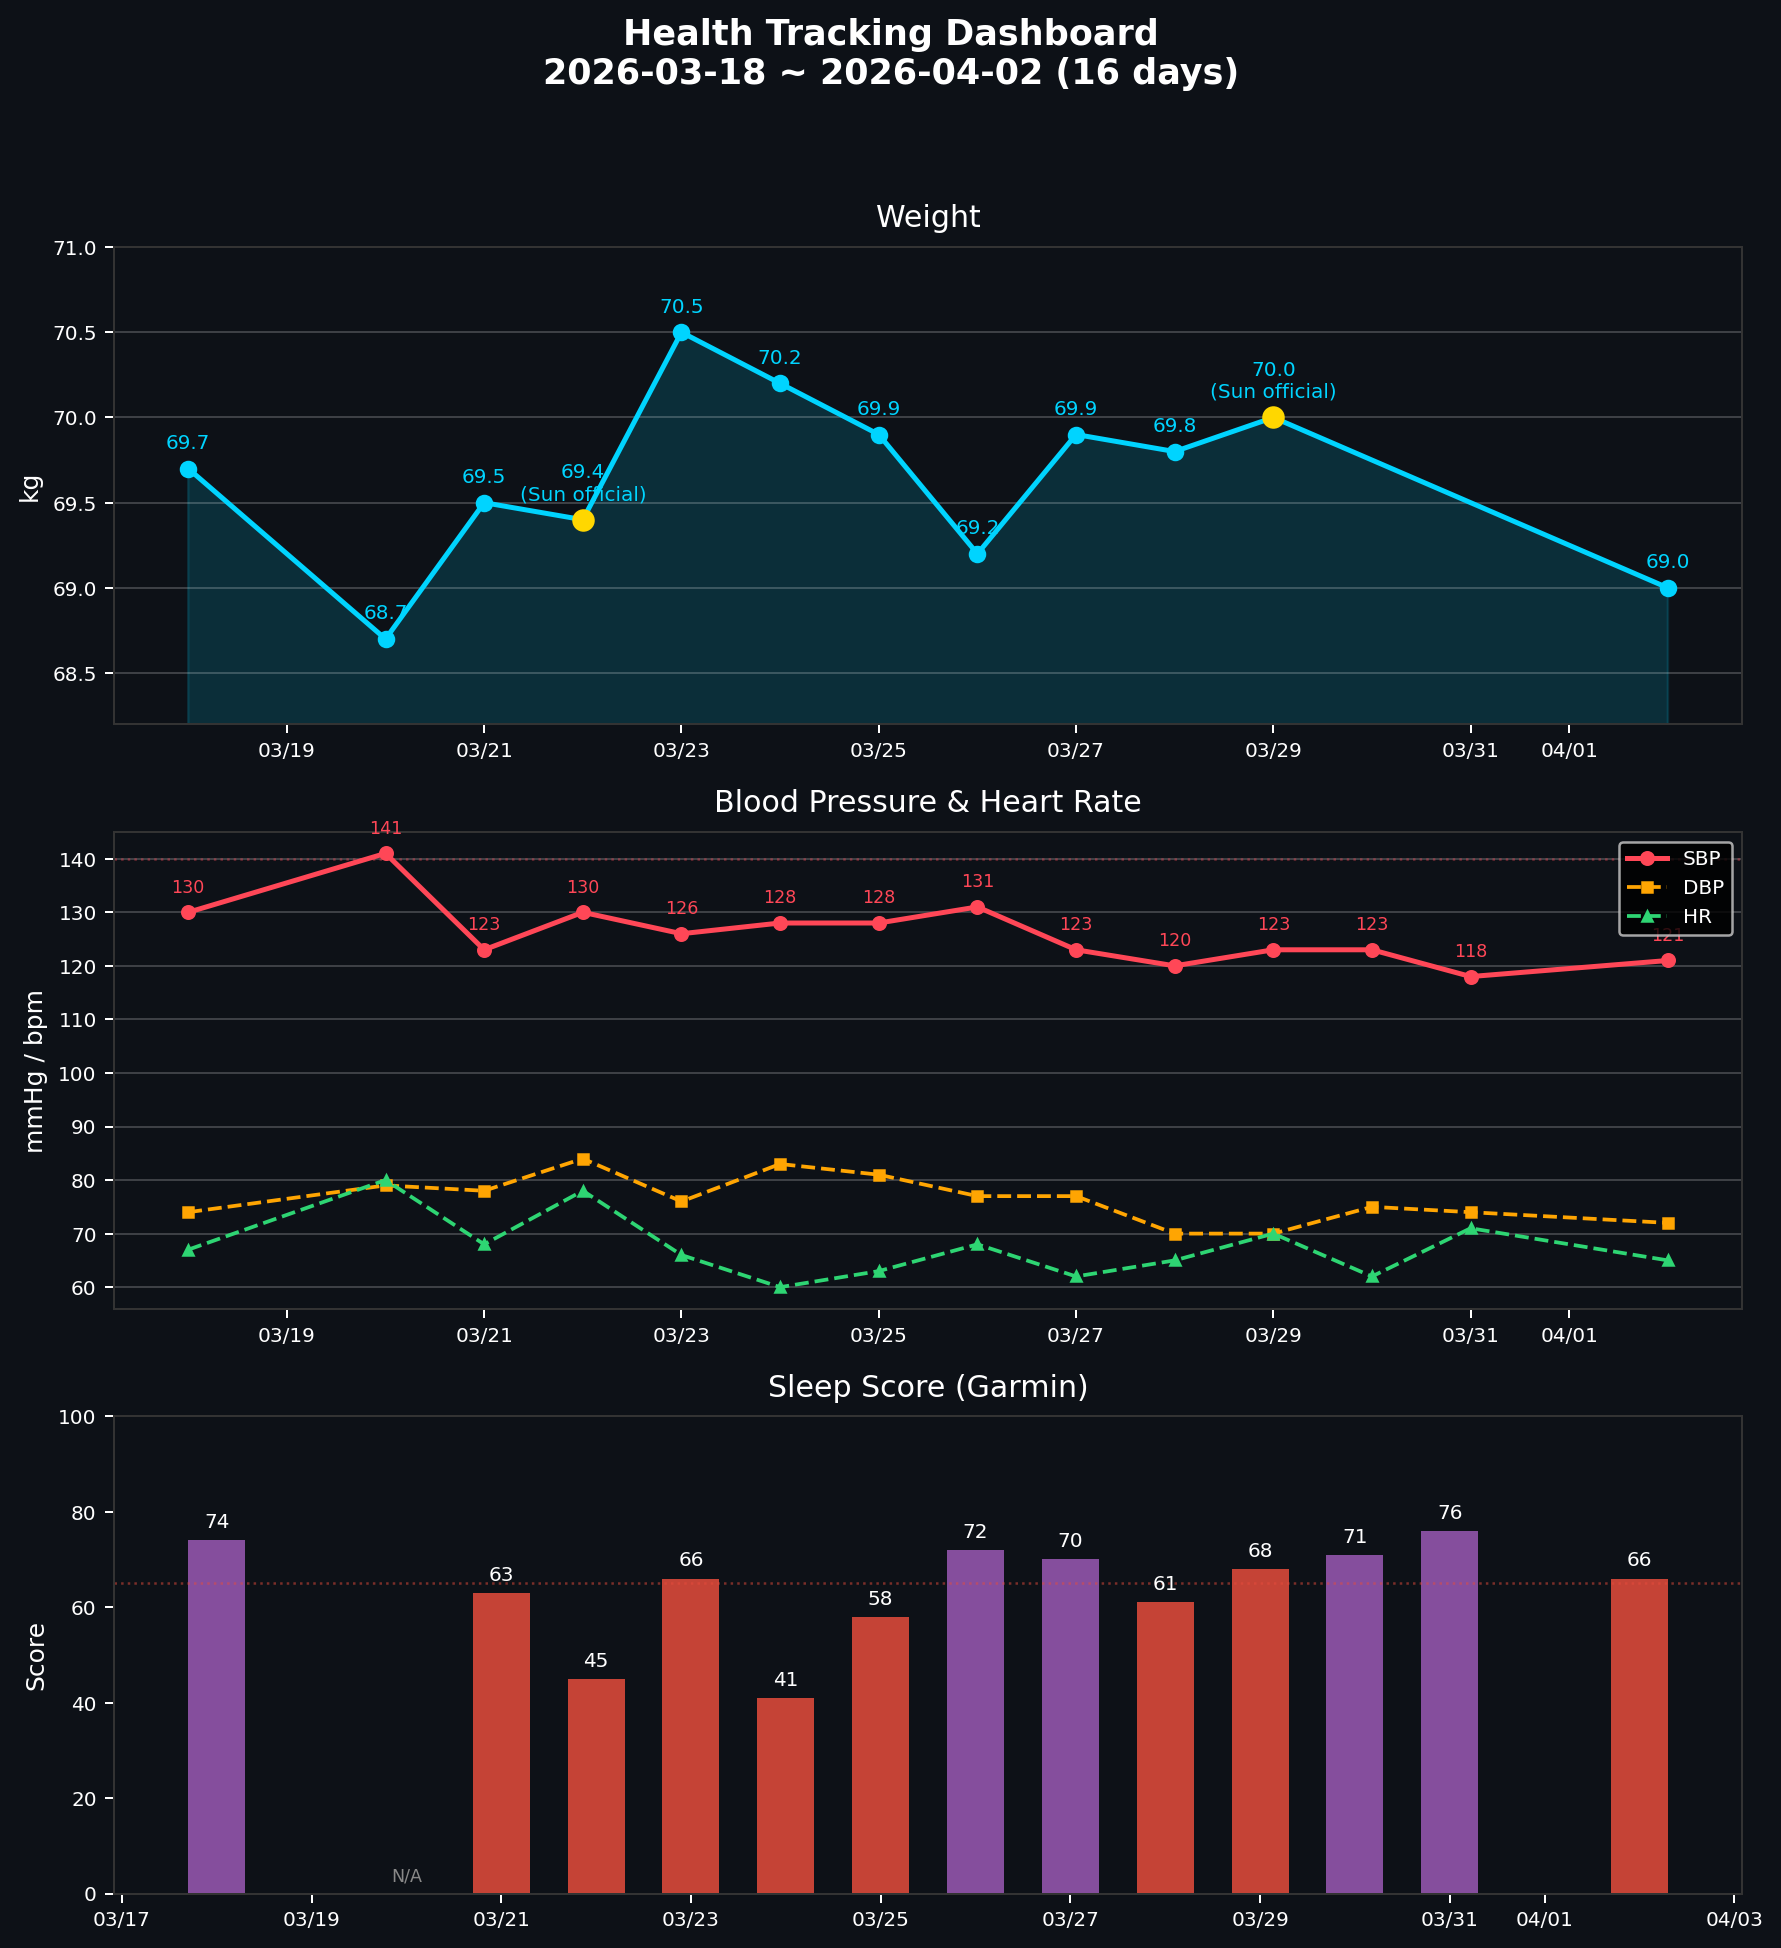
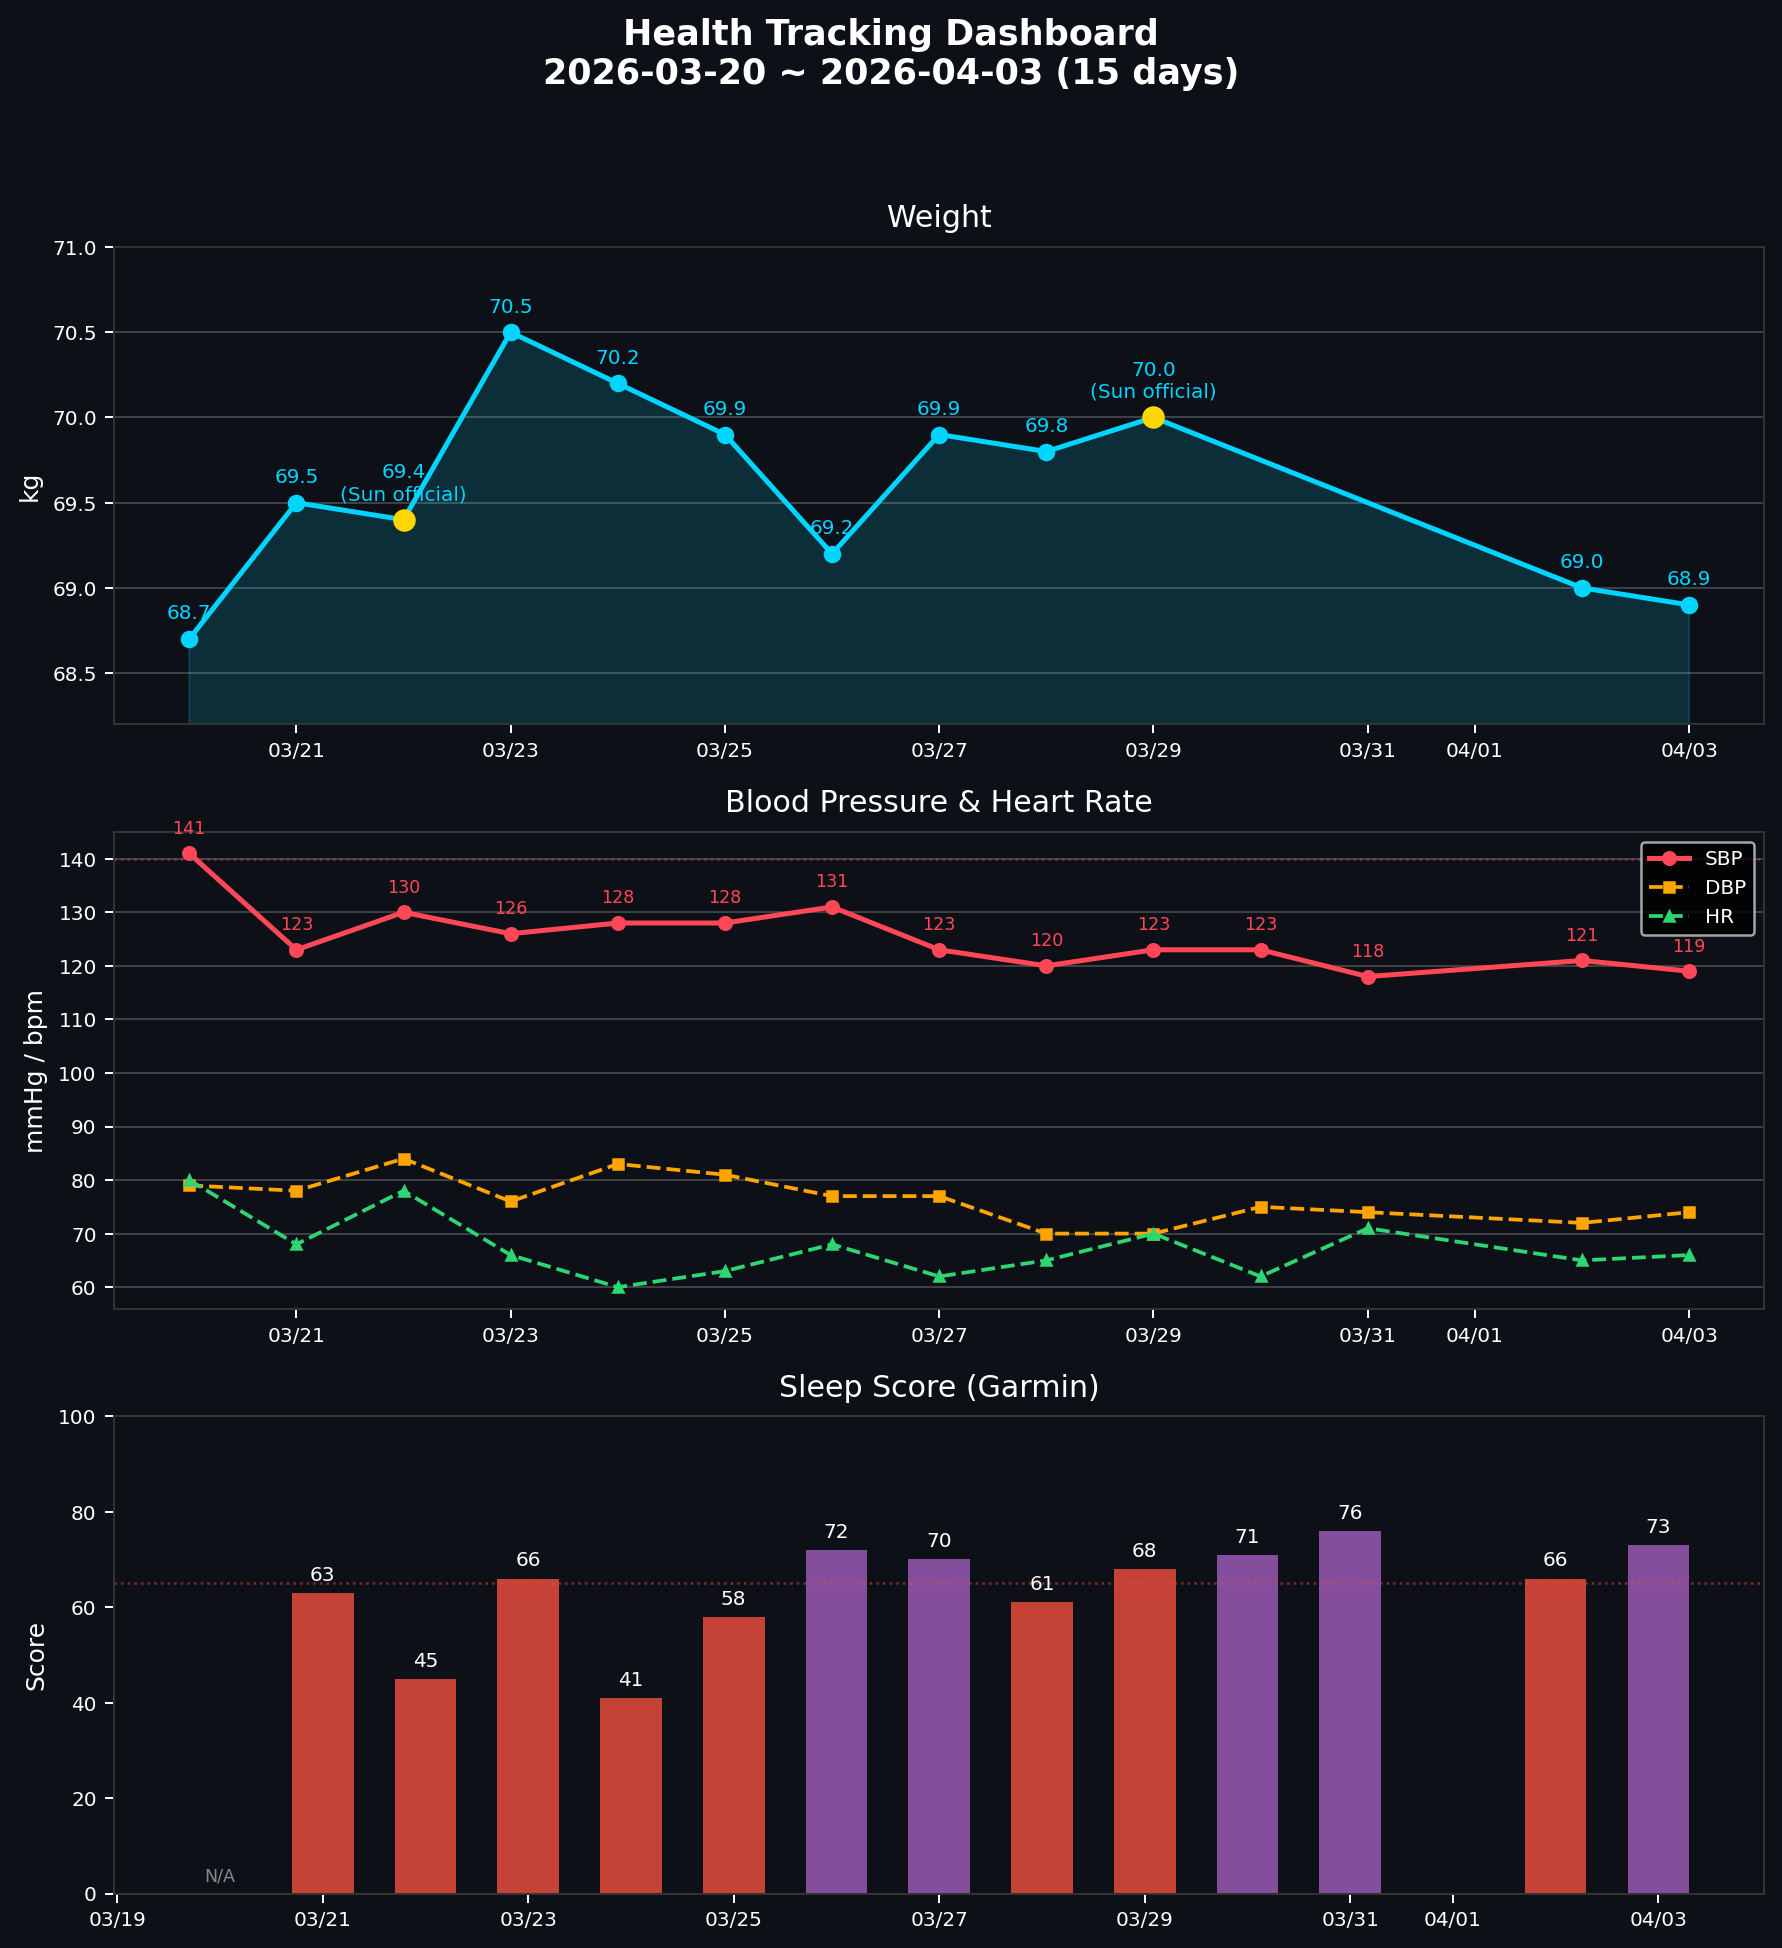
health: daily check-in 2026-04-03
體重 68.9kg，血壓 119/74/66，Sleep Score 73，Body Battery 42，身體信號清。

diff --git a/reviews/daily/2026-04-03.md b/reviews/daily/2026-04-03.md
@@ -1,0 +1,58 @@
+# 晨間健康紀錄 — 2026-04-03
+
+*3 分鐘。起床後立即完成。記錄，不分析。*
+
+---
+
+## 體重
+
+**今日：68.9 kg**
+
+*每週日早晨為正式紀錄（排尿後、進食前）。其他日可選填。*
+
+---
+
+## 血壓（晨間）
+
+*起床後 1 小時內，上完廁所、進食前。坐下安靜 5 分鐘，連量兩次取第二次。*
+
+| 次數 | 收縮壓 | 舒張壓 | 心率 |
+|------|--------|--------|------|
+| 第一次 | 121 | 75 | 69 |
+| 第二次 | 119 | 74 | 66 |
+
+---
+
+## 睡眠狀態
+
+**實際就寢：** 21:59
+**實際起床：** 05:06
+**中途醒來：** 3次（原因不明）
+**Garmin Sleep Score：** 73 / 100
+**Garmin Body Battery 起床值：** 42
+**主觀恢復感：** 4 / 5（1=極度疲憊, 5=精力充沛）
+
+*Sleep Score < 65 或 Body Battery < 40 連續三天 → 重新檢視睡眠修復方案。*
+
+---
+
+## 身體信號
+
+*任何張力、疼痛、疲勞、異常 — 或「清」。記位置、性質、強度。*
+
+清
+
+---
+
+## 今日計畫速記
+
+- [ ] 飲水：1500 ml（17:00 前完成主要量）
+- [ ] 補充品：魚油
+- [ ] 運動：____________________
+- [ ] 活動度/伸展：____________________
+
+---
+
+💡 PT 建議：身體信號清，恢復感 4/5，Sleep Score 73 屬正常範圍。Body Battery 42 稍低，建議今日運動按計畫執行但不進階。飲水目標 1500 ml 偏低，注意尿酸排泄，若可以盡量補到 2.0L。
+
+*Filed: reviews/daily/2026-04-03.md*

diff --git a/reviews/weekly/2026-W14.md b/reviews/weekly/2026-W14.md
@@ -29,7 +29,7 @@
 
 | 一 | 二 | 三 | 四 | 五 | 六 | 日 |
 |----|----|----|----|----|----|-----|
-| | | | | | | |
+| | | | | 68.9 | | |
 
 **週日正式值：** _____ kg
 **上週日正式值：** _____ kg
@@ -45,7 +45,7 @@
 | 03/31 (二) | 118 | 74 | 71 |
 | [WED] (三) | | | |
 | 04/02 (四) | 121 | 72 | 65 |
-| [FRI] (五) | | | |
+| 04/03 (五) | 119 | 74 | 66 |
 | [SAT] (六) | | | |
 | [SUN] (日) | | | |
 
@@ -63,7 +63,7 @@
 | 03/31 (二) | 22:06 | 05:46 | 2次 | 76 | 40 | 4 |
 | [WED] (三) | | | | | | |
 | 04/02 (四) | 22:09 | 04:40 | 1次 | 66 | 22 | 3 |
-| [FRI] (五) | | | | | | |
+| 04/03 (五) | 21:59 | 05:06 | 3次 | 73 | 42 | 4 |
 | [SAT] (六) | | | | | | |
 | [SUN] (日) | | | | | | |
 
